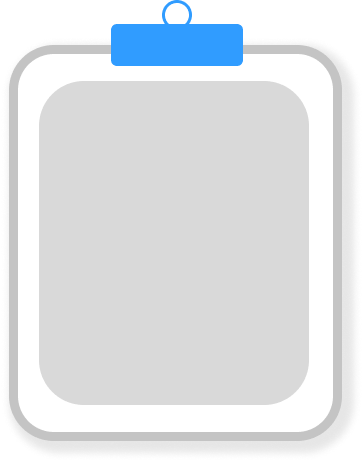
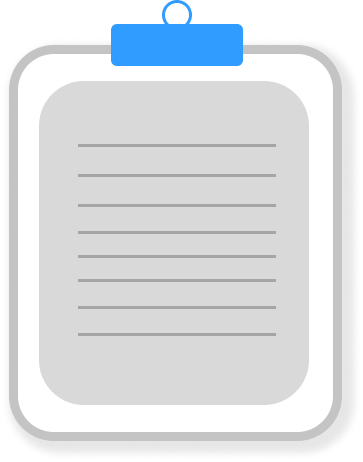
mengganti image nodata dan ukurannya

diff --git a/lib/view/homepage/home_page.dart b/lib/view/homepage/home_page.dart
@@ -209,7 +209,7 @@ class HomePage extends StatelessWidget {
                           children: [
                             Image.asset(
                               'assets/images/nodata.png',
-                              width: MediaQuery.of(context).size.height * 0.32,
+                              height: MediaQuery.of(context).size.height * 0.4,
                             ),
                             Text(
                               'Tidak Ada Data!',
